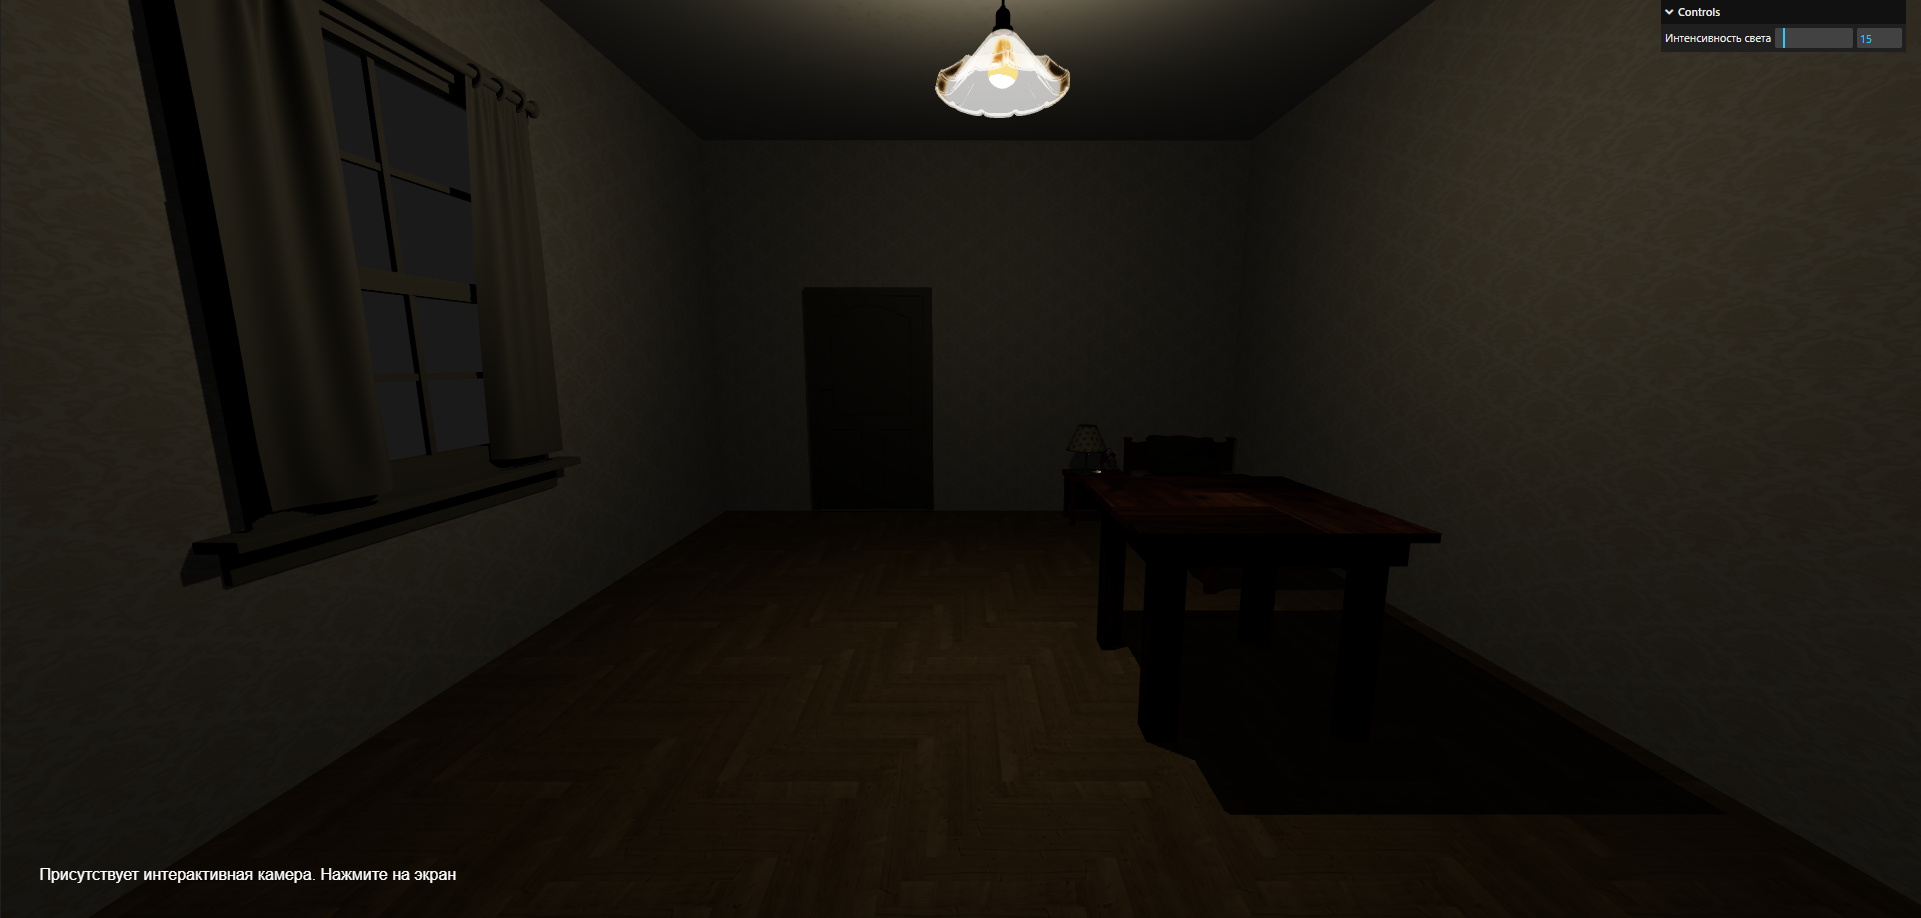
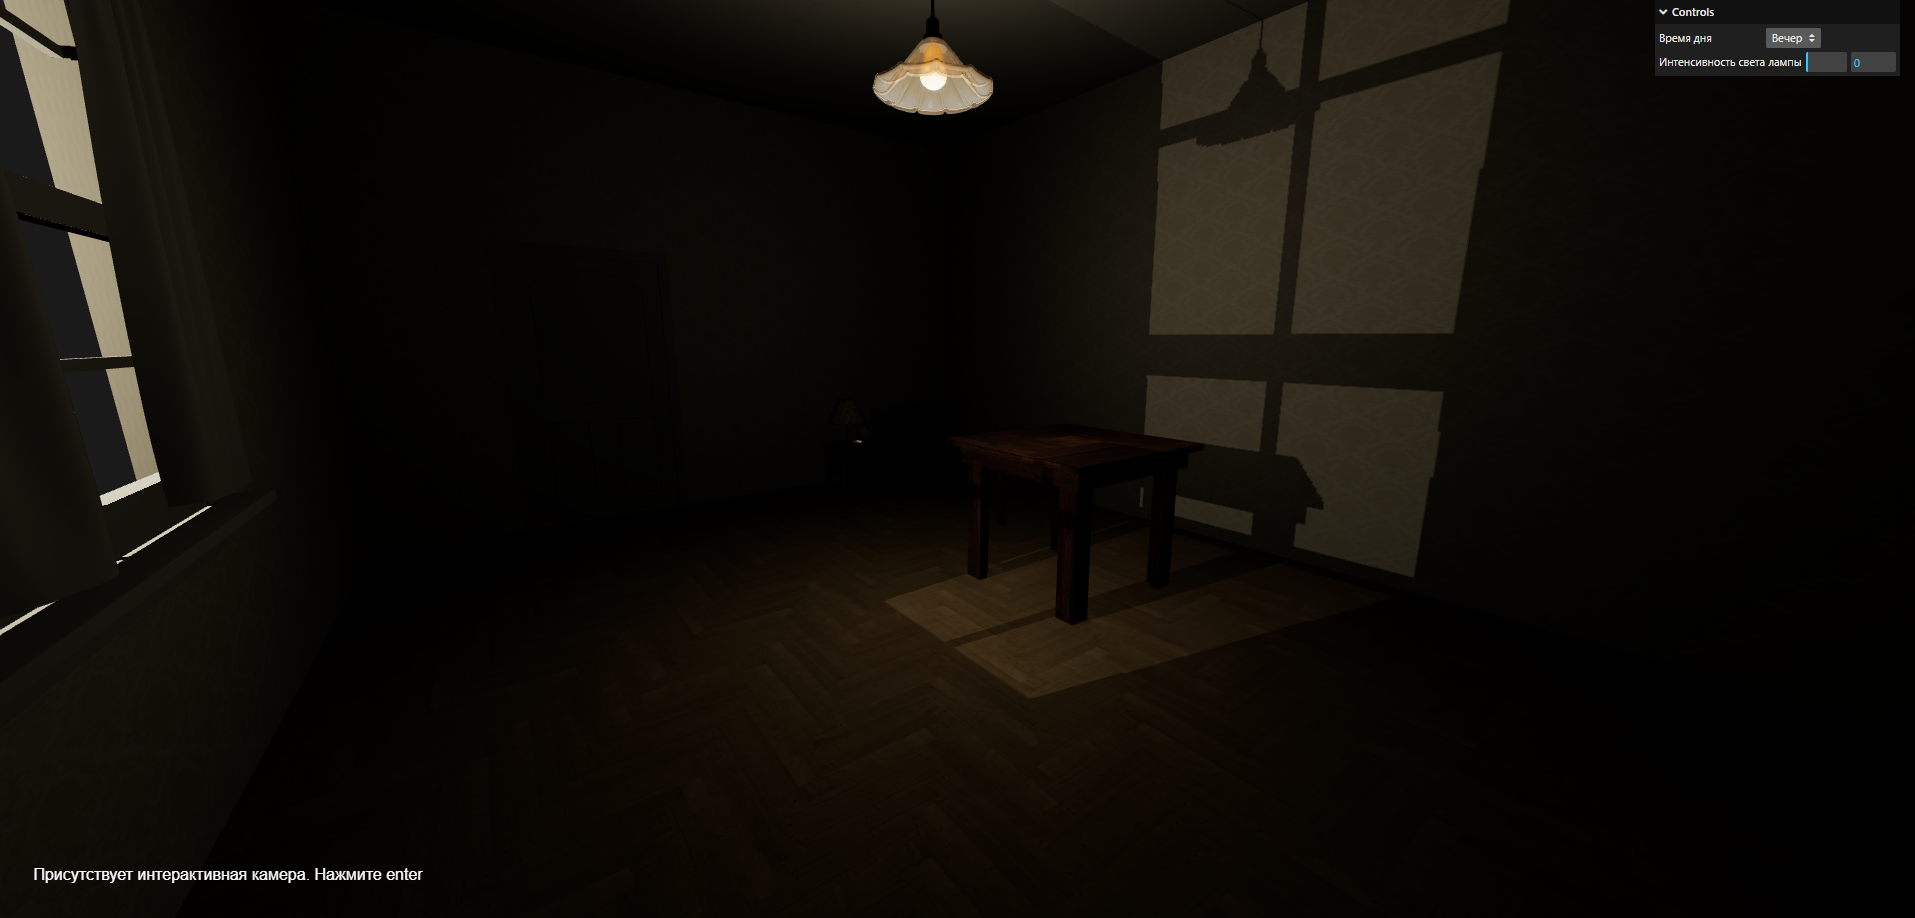
readme

diff --git a/src/scene.js b/src/scene.js
@@ -20,19 +20,11 @@ const scene = new THREE.Scene();
 scene.background = new THREE.Color('#1a1a1a');
 
 const camera = new THREE.PerspectiveCamera(75, window.innerWidth / window.innerHeight, 0.1, 1000);
-camera.position.set(0, 3, 0)
-camera.lookAt(0, 0, -6.2)
+camera.position.set(0, 3, 0);
+camera.lookAt(0, 0, -6.2);
 
 //управление камерой
 const controls = new PointerLockControls(camera, document.body);
-
-document.addEventListener('click', () => {
-    if (controls.isLocked) {
-        controls.unlock()
-    } else {
-        controls.lock();
-    }
-});
 
 document.addEventListener('keydown', (event) => {
     if (event.code === 'KeyW') {
@@ -49,6 +41,14 @@ document.addEventListener('keydown', (event) => {
 
     if (event.code === 'KeyD') {
         controls.moveRight(0.1)
+    }
+
+    if (event.code === "Enter") {
+        if (controls.isLocked) {
+            controls.unlock()
+        } else {
+            controls.lock();
+        }
     }
 });
 
@@ -87,12 +87,12 @@ function makeWall(width, height, x, y, z, rotX = 0, rotY = 0, PBR = {}) {
     wall.rotateX(rotX);
     wall.rotateY(rotY);
     return wall;
-}
+};
 
-const width = 13
-const depth = 10
-const height = 7
-const pi = Math.PI
+const width = 13;
+const depth = 10;
+const height = 7;
+const pi = Math.PI;
 
 const loadAndResizeTexture = (texture, sizeA, sizeB) => {
     const t = textureLoader.load(texture);
@@ -100,33 +100,33 @@ const loadAndResizeTexture = (texture, sizeA, sizeB) => {
     t.wrapT = THREE.RepeatWrapping
     t.repeat.set(sizeA, sizeB)
     return t
-}
+};
 
 //загрузка текстур
 const floor = makeWall(width, depth, 0, 0, 0, pi / 2, 0, {
     albedo: loadAndResizeTexture('/assets/textures/wood_texture/WoodFloor034_2K-JPG_Color.jpg', 5, 5),
     roughnessMap: loadAndResizeTexture('/assets/textures/wood_texture/WoodFloor034_2K-JPG_Roughness.jpg', 5, 5),
     normalMap: loadAndResizeTexture('/assets/textures/wood_texture/WoodFloor034_2K-JPG_NormalGL.jpg', 5, 5)
-})
+});
 
-walls.push(floor)
+walls.push(floor);
 
 const backWall = makeWall(width, height, 0, height / 2, -depth / 2, 0, 0, {
     albedo: loadAndResizeTexture('/assets/textures/wallpaper_10-2K/2K-walllpaper_10-diffuse.jpg', 5, 5),
     roughnessMap: loadAndResizeTexture('/assets/textures/wallpaper_10-2K/2K-walllpaper_10-specular.jpg', 5, 5),
     normalMap: loadAndResizeTexture('/assets/textures/wallpaper_10-2K/2K-walllpaper_10-normal.jpg', 5, 5)
-})
+});
 
-walls.push(backWall)
+walls.push(backWall);
 
 const frontWall = makeWall(width + 1, height + 1, 0, height / 2, depth / 2, 0, 0, {
     albedo: loadAndResizeTexture('/assets/textures/wallpaper_10-2K/2K-walllpaper_10-diffuse.jpg', 5, 5),
     roughnessMap: loadAndResizeTexture('/assets/textures/wallpaper_10-2K/2K-walllpaper_10-specular.jpg', 5, 5),
     normalMap: loadAndResizeTexture('/assets/textures/wallpaper_10-2K/2K-walllpaper_10-normal.jpg', 5, 5)
-})
+});
+
 
 //создание отверствия в стене под окно
-
 const windowHole = new THREE.Mesh(
     new THREE.BoxGeometry(2.5, 3.8, 0.4),
     new THREE.MeshStandardMaterial()
@@ -146,35 +146,34 @@ const leftWall = makeWall(depth, height, -width / 2, height / 2, 0, 0, pi / 2, {
     albedo: loadAndResizeTexture('/assets/textures/wallpaper_10-2K/2K-walllpaper_10-diffuse.jpg', 5, 5),
     roughnessMap: loadAndResizeTexture('/assets/textures/wallpaper_10-2K/2K-walllpaper_10-specular.jpg', 5, 5),
     normalMap: loadAndResizeTexture('/assets/textures/wallpaper_10-2K/2K-walllpaper_10-normal.jpg', 5, 5)
-})
+});
 
-walls.push(leftWall)
+walls.push(leftWall);
 
 const rightWall = makeWall(depth, height, width / 2, height / 2, 0, 0, pi / 2, {
     albedo: loadAndResizeTexture('/assets/textures/wallpaper_10-2K/2K-walllpaper_10-diffuse.jpg', 5, 5),
     roughnessMap: loadAndResizeTexture('/assets/textures/wallpaper_10-2K/2K-walllpaper_10-specular.jpg', 5, 5),
     normalMap: loadAndResizeTexture('/assets/textures/wallpaper_10-2K/2K-walllpaper_10-normal.jpg', 5, 5)
-})
+});
 
-walls.push(rightWall)
+walls.push(rightWall);
 
 const ceiling = makeWall(width, depth, 0, height, 0, pi / 2, 0, {
     albedo: loadAndResizeTexture('/assets/textures/ceiling_texture/WhiteStuccoWall02_2K_BaseColor.png', 0.2, 0.2),
     roughnessMap: loadAndResizeTexture('/assets/textures/ceiling_texture/WhiteStuccoWall02_2K_Roughness.png', 0.2, 0.2),
     normalMap: loadAndResizeTexture('/assets/textures/ceiling_texture/WhiteStuccoWall02_2K_Normal.png', 0.2, 0.2)
-})
+});
 
-walls.push(ceiling)
+walls.push(ceiling);
 
 //добавление мебели
-
 const modelDictionary = {
     bedModel: '/assets/models/bed__bedside_table/scene.gltf',
     ceilingLamp: '/assets/models/ceiling_lamp_flower_style/scene.gltf',
     windowModel: '/assets/models/window/scene.gltf',
     doorModel: '/assets/models/wooden_door/scene.gltf',
     woodenTableModel: '/assets/models/wooden_table/scene.gltf'
-}
+};
 
 function loadModel(url) {
     return new Promise((resolve, reject) => {
@@ -194,46 +193,45 @@ function loadModel(url) {
             error => reject(error)
         );
     });
-}
+};
 
 async function loadAndAssignModels(dict) {
     return new Promise(async (resolve, reject) => {
-        const keys = Object.keys(dict)
-        const urls = Object.values(dict)
-        const promises = urls.map(url => loadModel(url))
+        const keys = Object.keys(dict);
+        const urls = Object.values(dict);
+        const promises = urls.map(url => loadModel(url));
         try {
-            const loadedModels = await Promise.all(promises)
+            const loadedModels = await Promise.all(promises);
             keys.forEach((key, index) => {
-                dict[key] = loadedModels[index]
-            })
-            resolve(dict)
+                dict[key] = loadedModels[index];
+            });
+            resolve(dict);
         } catch (error) {
-            reject(error)
+            reject(error);
         }
-    })
-}
+    });
+};
 
 //расстановка мебели
 loadAndAssignModels(modelDictionary).then(models => {
-    models.bedModel.scale.set(0.02, 0.02, 0.02)
-    models.bedModel.position.set(-4.1, 0, -3.8)
+    models.bedModel.scale.set(0.02, 0.02, 0.02);
+    models.bedModel.position.set(-4.1, 0, -3.8);
     models.bedModel.rotateY(pi / 2);
-    scene.add(models.bedModel)
-    models.windowModel.scale.set(0.06, 0.06, 0.06)
-    models.windowModel.position.set(-0.5, 0.8, 6.2)
-    models.windowModel.rotateY(pi / 2)
-    scene.add(models.windowModel)
+    scene.add(models.bedModel);
+    models.windowModel.scale.set(0.06, 0.06, 0.06);
+    models.windowModel.position.set(-0.5, 0.8, 6.2);
+    models.windowModel.rotateY(pi / 2);
+    scene.add(models.windowModel);
     models.doorModel.scale.set(1.8, 1.9, 1.9);
-    models.doorModel.position.set(-6.3, 2.2, 4.2)
+    models.doorModel.position.set(-6.3, 2.2, 4.2);
     scene.add(models.doorModel);
     models.ceilingLamp.scale.set(0.02, 0.02, 0.02);
-    models.ceilingLamp.position.set(0, 4, 0)
-    scene.add(models.ceilingLamp)
-    models.woodenTableModel.scale.set(7, 7, 7)
-    models.woodenTableModel.position.set(0, 0, -2)
+    models.ceilingLamp.position.set(0, 4, 0);
+    scene.add(models.ceilingLamp);
+    models.woodenTableModel.scale.set(7, 7, 7);
+    models.woodenTableModel.position.set(0, 0, -2);
     scene.add(models.woodenTableModel);
-})
-
+});
 
 //добавление шедоумап каждой стене
 walls.forEach(obj => {
@@ -246,30 +244,58 @@ walls.forEach(obj => {
     scene.add(obj);
 });
 
-//добавление света
-const lampLight = new THREE.PointLight(0xf7e9c7, 150, 100, Math.PI, 1);
+//свет лампы
+const lampLight = new THREE.PointLight(0xf7e9c7, 0, 100, Math.PI, 1);
 lampLight.position.set(0, 5, 0);
 lampLight.castShadow = true;
-lampLight.shadow.bias = -0.0003
+lampLight.shadow.bias = -0.0003;
 lampLight.shadow.normalBias = 0.02;
-lampLight.shadow.mapSize.width = 1024
-lampLight.shadow.mapSize.height = 1024
+lampLight.shadow.mapSize.width = 1024;
+lampLight.shadow.mapSize.height = 1024;
 lampLight.shadow.camera.near = 1;
 lampLight.shadow.camera.far = 6;
 scene.add(lampLight);
 
-const ambientLight = new THREE.AmbientLight(0x404040, 0.5);
-scene.add(ambientLight);
+//свет из-за окна для симуляции солнца, меняем интенсивность для симуляции дня и вечера
+const lightBehindWindow = new THREE.PointLight(0xf7e9c7, 300, 100, Math.PI, 1);
+lightBehindWindow.position.set(-0.5, 4, 9);
+lightBehindWindow.castShadow = true;
+lightBehindWindow.shadow.bias = -0.0003
+lightBehindWindow.shadow.normalBias = 0.02;
+lightBehindWindow.shadow.mapSize.width = 1024
+lightBehindWindow.shadow.mapSize.height = 1024
+lightBehindWindow.shadow.camera.near = 1;
+lightBehindWindow.shadow.camera.far = 6;
+scene.add(lightBehindWindow);
+
+//поскольку three не имеет рейтрейсинга для отражения света из-за окна, добавляем PointLight внуть
+const lightInside = new THREE.PointLight(0xf7e9c7, 150, 100, Math.PI, 1);
+lightInside.position.set(0, 4, 0);
+scene.add(lightInside);
 
 //добавление интерфейса для контроля освещения
 const gui = new GUI();
 
-gui.add(lampLight, 'intensity', 0, 150).step(5).name('Интенсивность света');
+const settings = {
+    timeOfDay: 'День',
+};
+
+function updateLights() {
+    if (settings.timeOfDay === 'День') {
+        lightInside.intensity = 150;
+    } else {
+        lightInside.intensity = 10;
+    }
+};
+
+gui.add(settings, 'timeOfDay', ['День', 'Вечер']).name('Время дня').onChange(updateLights);
+gui.add(lampLight, 'intensity', 0, 150).step(5).name('Интенсивность света лампы');
 
 function animate() {
     requestAnimationFrame(animate);
     renderer.render(scene, camera);
-}
+};
+
 animate();
 
 window.addEventListener('resize', () => {

diff --git a/index.html b/index.html
@@ -11,6 +11,6 @@
     <body>
         <canvas alt="Ваш браузер не поддерживает WebGL" id="room-canvas"></canvas>
         <script type="module" src="src/scene.js" async defer></script>
-        <p id="hint">Присутствует интерактивная камера. Нажмите на экран</p>
+        <p id="hint">Присутствует интерактивная камера. Нажмите enter</p>
     </body>
 </html>

diff --git a/readme.md b/readme.md
@@ -5,7 +5,7 @@ https://refloor-test.vercel.app/
 Так же рассматривал WebGL, но использование WebGL подразумевает ручную установку вершин объектов и создание освещения с помощью линейной алгебры, это бы замедлило разработку и ухудшило читаемость кода.
 ## Работа со светом и материалами
 Все текстуры используют PBR-материалы.
-Для отображения света используется два источника, THREE.PointLight, расположенный в центре комнаты и AmbientLight. У меня не получилось реализовать смену дневного освещения, но у PointLight присутствует регулировка яркости.
+Для отображения света используется три источника: PointLight для лампы с регулируемой интенсивностью, PointLight внутри комнаты для имитации отражения света от стен (в Three отсутствует рейтрейсинг) и PointLight снаружи для имитации света солнца
 Для мягкости света используется тонмаппинг.
 ## Скриншоты
 Скриншоты находятся в корневой папке.
